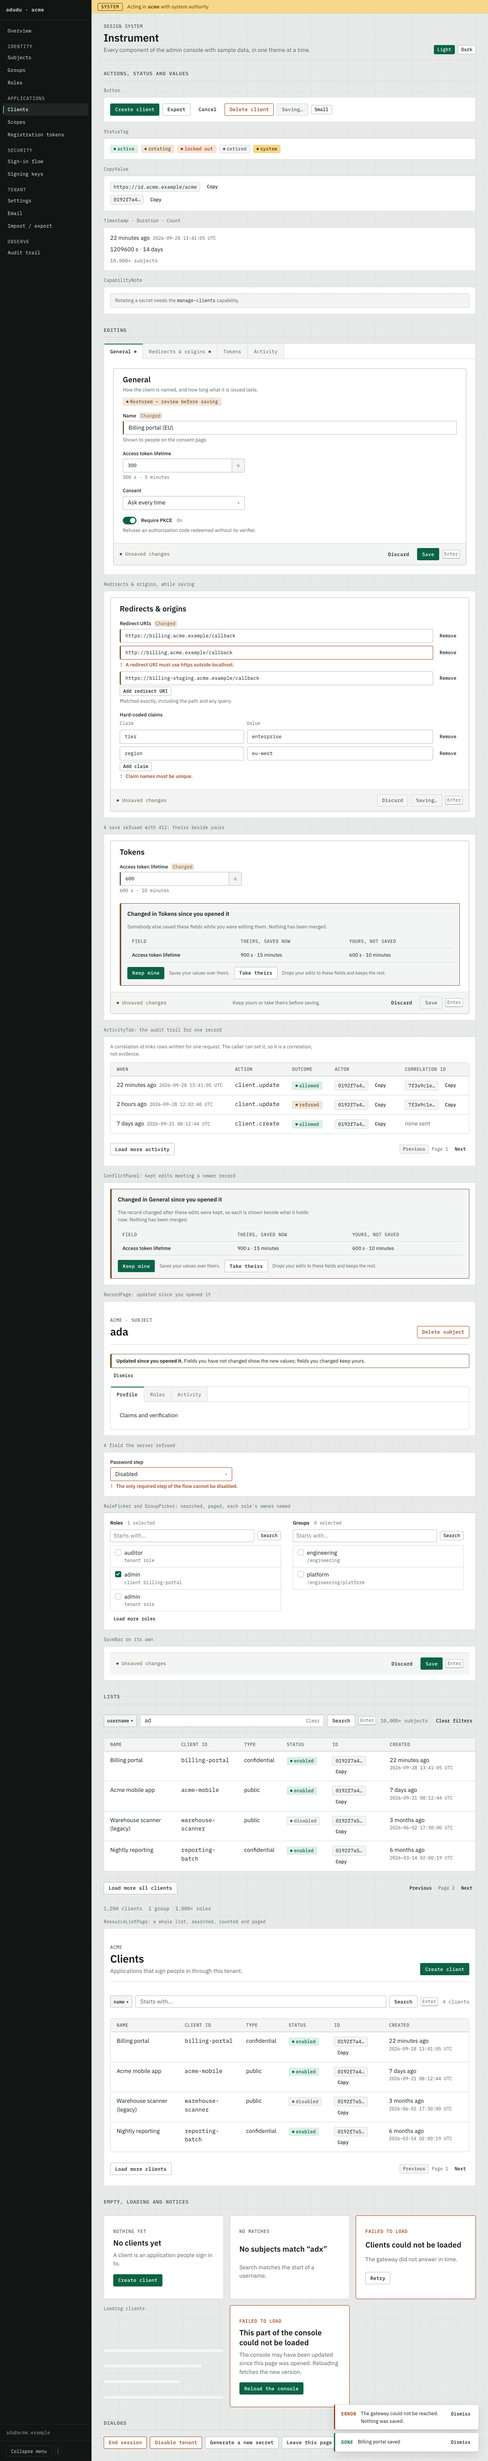
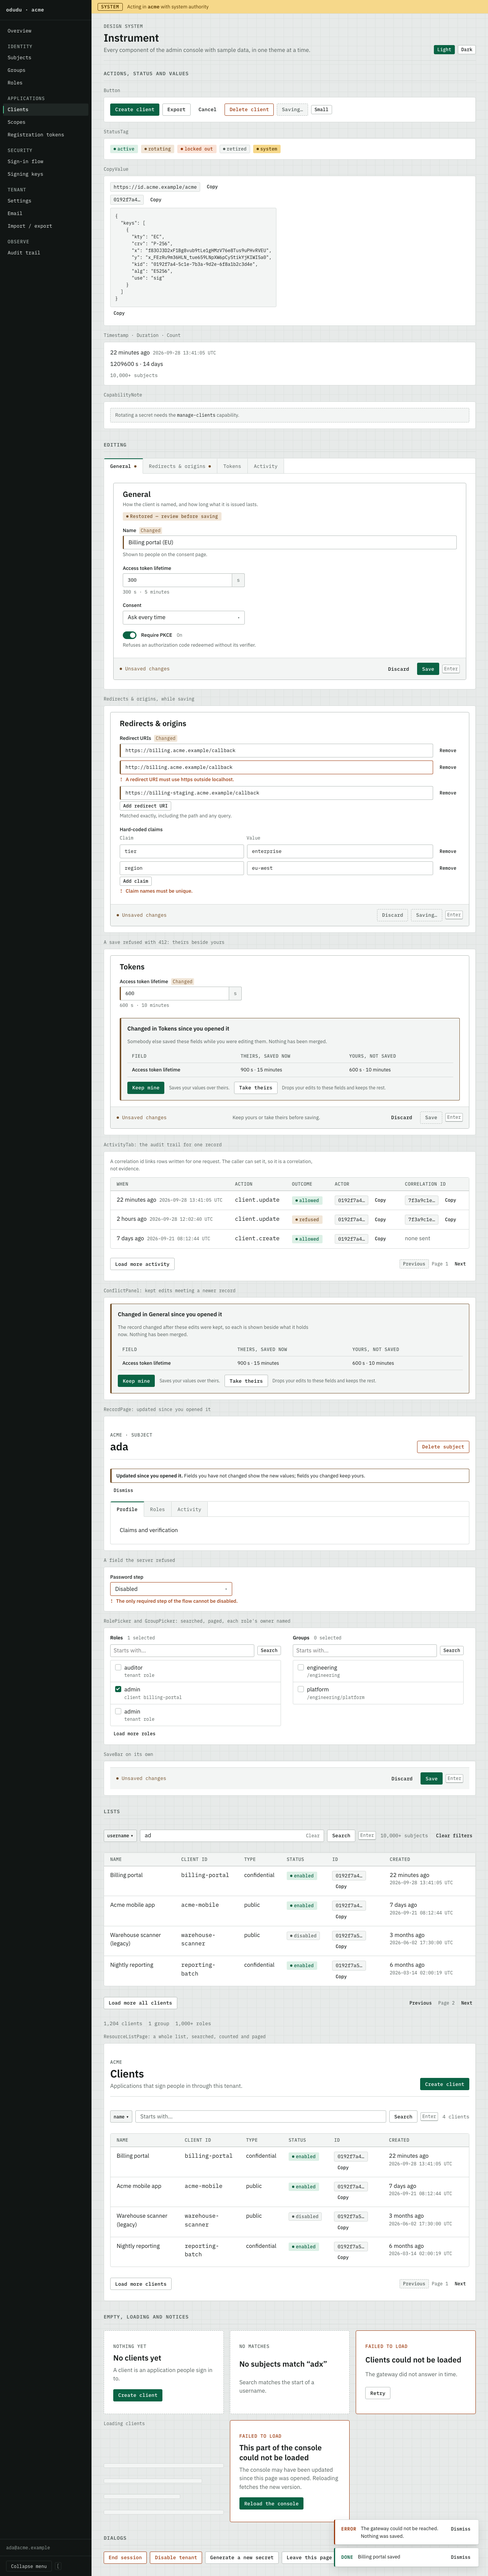
Show CopyValue's block mode in the gallery, with a close-up of its own

diff --git a/apps/admin-console/src/gallery/samples.ts b/apps/admin-console/src/gallery/samples.ts
@@ -190,3 +190,22 @@ export const GROUPS: readonly Group[] = [
     created_at: '2026-09-28T13:41:05Z',
   },
 ];
+
+// A published key set as the Discovery panel shows it raw.
+export const JWKS_SAMPLE = JSON.stringify(
+  {
+    keys: [
+      {
+        kty: 'EC',
+        crv: 'P-256',
+        x: 'f83OJ3D2xF1Bg8vub9tLe1gHMzV76e8Tus9uPHvRVEU',
+        y: 'x_FEzRu9m36HLN_tue659LNpXW6pCyStikYjKIWI5a0',
+        kid: '0192f7a4-5c1e-7b3a-9d2e-6f8a1b2c3d4e',
+        alg: 'ES256',
+        use: 'sig',
+      },
+    ],
+  },
+  null,
+  2,
+);

diff --git a/apps/admin-console/src/gallery/Gallery.tsx b/apps/admin-console/src/gallery/Gallery.tsx
@@ -52,6 +52,7 @@ import {
   CONFLICTS,
   EVENTS,
   GROUPS,
+  JWKS_SAMPLE,
   NOW,
   RAIL_GROUPS,
   REDIRECT_URIS,
@@ -554,6 +555,7 @@ export function Gallery({
             <div className={styles.stack}>
               <CopyValue label="issuer" value="https://id.acme.example/acme" />
               <CopyValue label="client id" value={CLIENTS[0]?.id ?? ''} short />
+              <CopyValue label="JWKS" value={JWKS_SAMPLE} block />
             </div>
           </Specimen>
           <Specimen label="Timestamp · Duration · Count">

diff --git a/apps/admin-console/scripts/galleryScreenshots.ts b/apps/admin-console/scripts/galleryScreenshots.ts
@@ -15,6 +15,7 @@ const PATTERNS = {
   activity: 'ActivityTab: the audit trail for one record',
   pickers: "RolePicker and GroupPicker: searched, paged, each role's owner named",
   list: 'ResourceListPage: a whole list, searched, counted and paged',
+  copy: 'CopyValue',
 } as const;
 
 type Theme = (typeof THEMES)[number];
